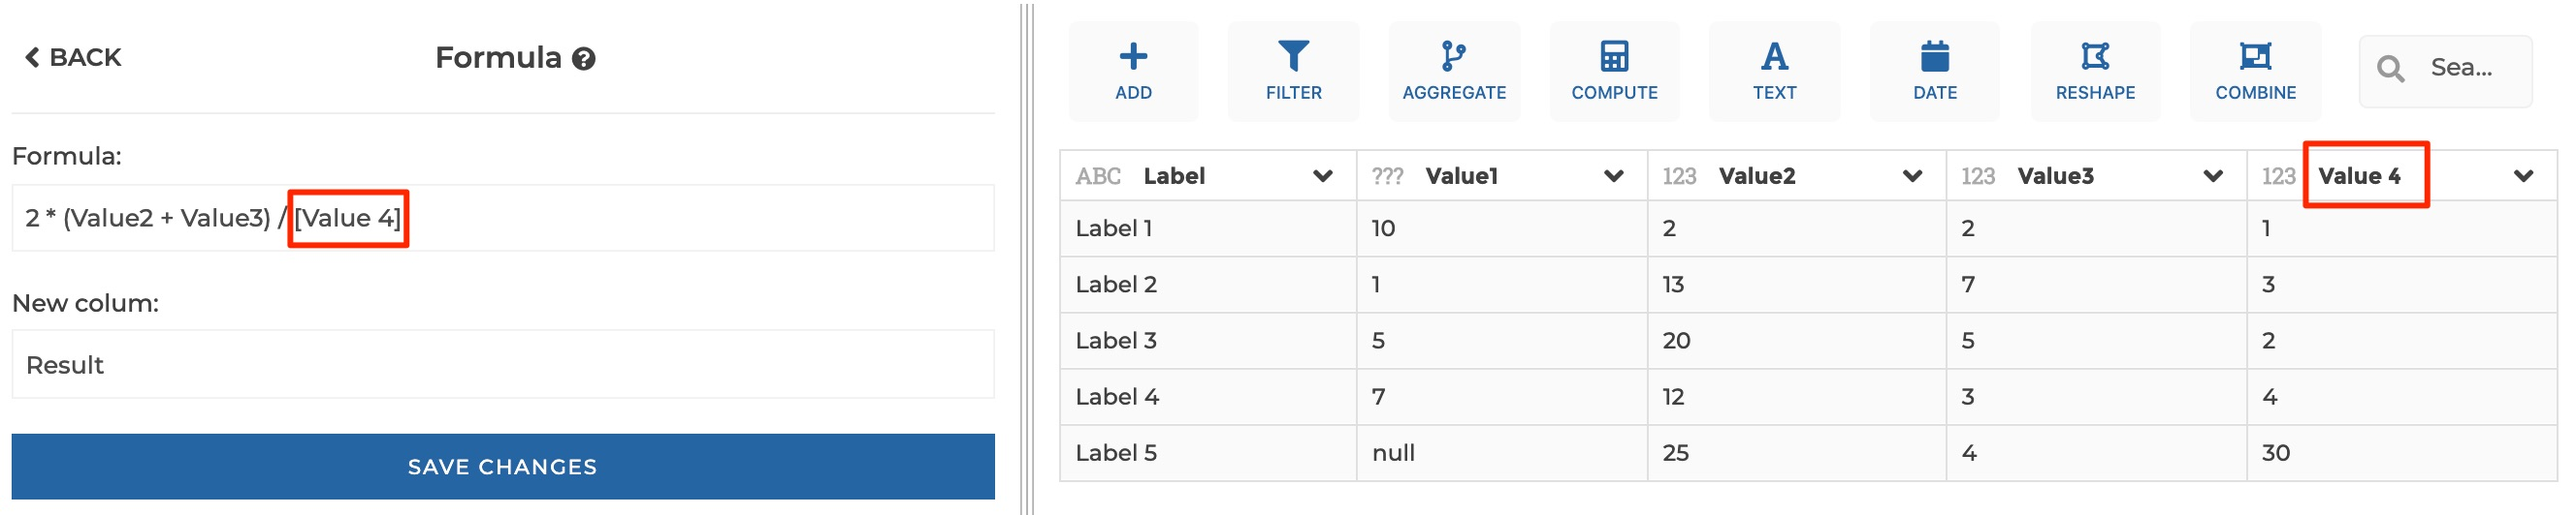
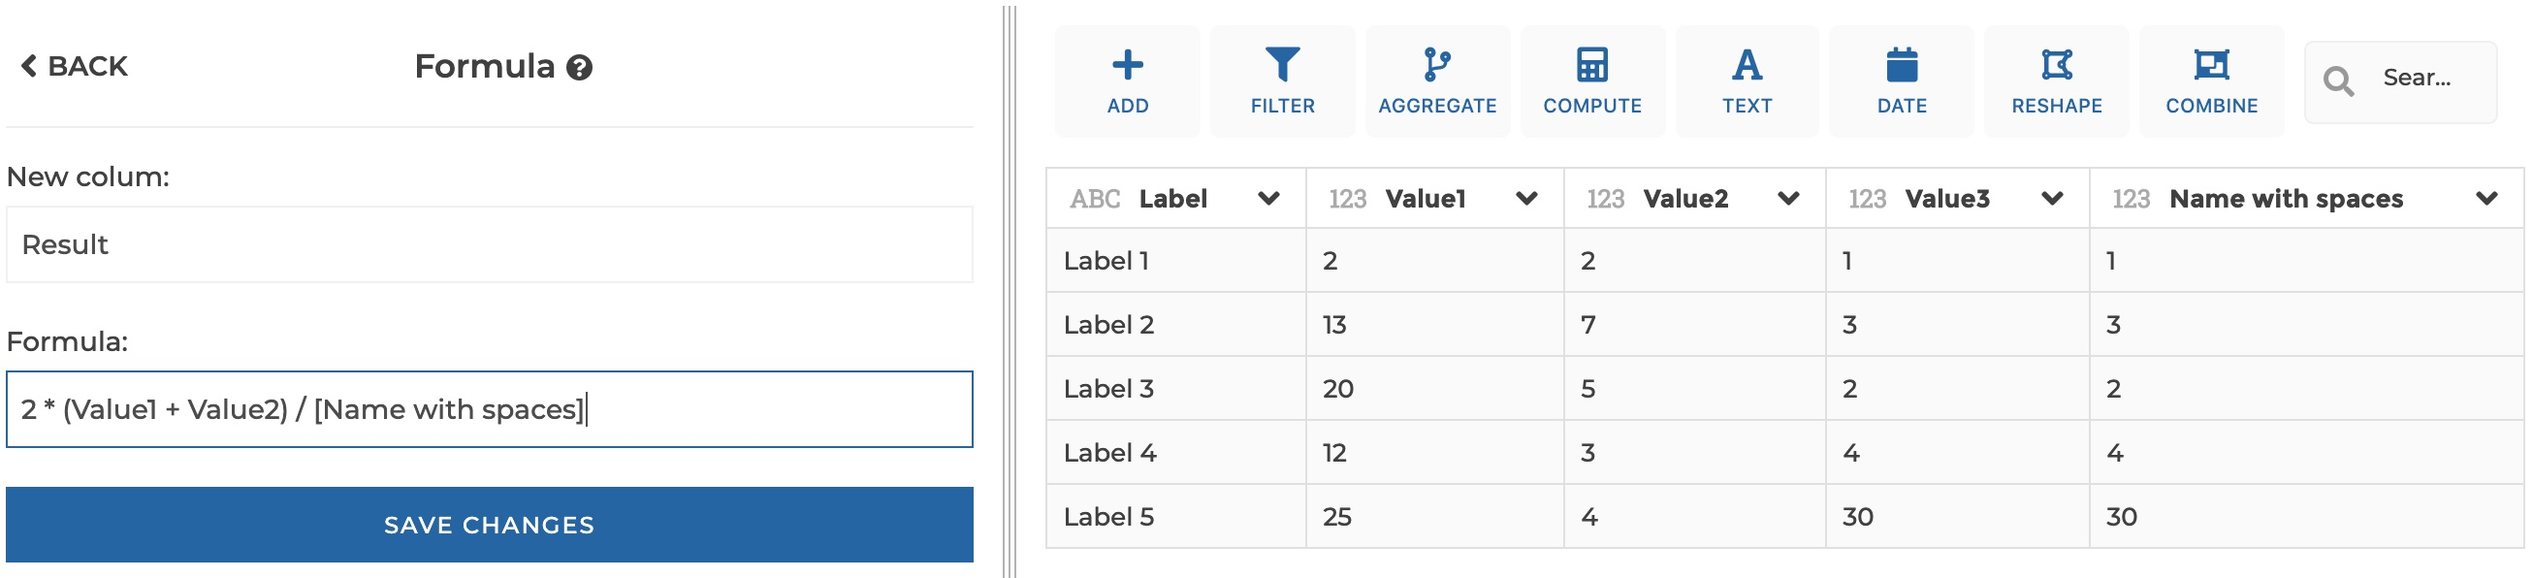
Change parameters orders to make some forms more intuitive In text and formula steps, first ask for the new columnn name to be created, which is more intuitive according to several feedbacks.

diff --git a/tests/unit/add-text-column.spec.ts b/tests/unit/add-text-column.spec.ts
@@ -13,18 +13,8 @@ describe('Add Text Column Step Form', () => {
     const wrapper = runner.shallowMount();
     wrapper.setData({ editedStep: { name: 'text', text: 'some text', new_column: 'foo' } });
     await wrapper.vm.$nextTick();
-    expect(
-      wrapper
-        .findAll('inputtextwidget-stub')
-        .at(0)
-        .props('value'),
-    ).toEqual('some text');
-    expect(
-      wrapper
-        .findAll('inputtextwidget-stub')
-        .at(1)
-        .props('value'),
-    ).toEqual('foo');
+    expect(wrapper.find('.newColumnInput').props('value')).toEqual('foo');
+    expect(wrapper.find('.textInput').props('value')).toEqual('some text');
   });
 
   it('should make the focus on the column added after validation', () => {
@@ -68,8 +58,7 @@ describe('Add Text Column Step Form', () => {
       const wrapper = runner.shallowMount(initialState);
       wrapper.setData({ editedStep: { text: '', new_column: 'columnA' } });
       await wrapper.vm.$nextTick();
-      const inputText = wrapper.findAll('inputtextwidget-stub');
-      expect(inputText.at(1).props().warning).toEqual(
+      expect(wrapper.find('.newColumnInput').props().warning).toEqual(
         'A column name "columnA" already exists. You will overwrite it.',
       );
     });
@@ -84,8 +73,7 @@ describe('Add Text Column Step Form', () => {
       const wrapper = runner.shallowMount(initialState);
       wrapper.setData({ editedStep: { text: '', new_column: 'columnB' } });
       await wrapper.vm.$nextTick();
-      const inputText = wrapper.findAll('inputtextwidget-stub');
-      expect(inputText.at(1).props().warning).toBeNull();
+      expect(wrapper.find('.newColumnInput').props().warning).toBeNull();
     });
   });
 });

diff --git a/tests/unit/formula-step-form.spec.ts b/tests/unit/formula-step-form.spec.ts
@@ -36,18 +36,8 @@ describe('Formula Step Form', () => {
       },
     );
     await wrapper.vm.$nextTick();
-    expect(
-      wrapper
-        .findAll('inputtextwidget-stub')
-        .at(0)
-        .props('value'),
-    ).toEqual('ColumnA * 2');
-    expect(
-      wrapper
-        .findAll('inputtextwidget-stub')
-        .at(1)
-        .props('value'),
-    ).toEqual('foo');
+    expect(wrapper.find('.newColumnInput').props('value')).toEqual('foo');
+    expect(wrapper.find('.formulaInput').props('value')).toEqual('ColumnA * 2');
   });
 
   describe('Warning', () => {
@@ -62,8 +52,7 @@ describe('Formula Step Form', () => {
         data: { editedStep: { formula: '', new_column: 'columnA' } },
       });
       await wrapper.vm.$nextTick();
-      const inputText = wrapper.findAll('inputtextwidget-stub');
-      expect(inputText.at(1).props().warning).toEqual(
+      expect(wrapper.find('.newColumnInput').props().warning).toEqual(
         'A column name "columnA" already exists. You will overwrite it.',
       );
     });
@@ -79,8 +68,7 @@ describe('Formula Step Form', () => {
         data: { editedStep: { formula: '', new_column: 'columnB' } },
       });
       await wrapper.vm.$nextTick();
-      const inputText = wrapper.findAll('inputtextwidget-stub');
-      expect(inputText.at(1).props().warning).toBeNull();
+      expect(wrapper.find('.newColumnInput').props().warning).toBeNull();
     });
   });
 

diff --git a/src/components/stepforms/FormulaStepForm.vue b/src/components/stepforms/FormulaStepForm.vue
@@ -2,14 +2,6 @@
   <div>
     <StepFormHeader :title="title" :stepName="this.editedStep.name" />
     <InputTextWidget
-      class="formulaInput"
-      v-model="editedStep.formula"
-      name="Formula:"
-      placeholder
-      data-path=".formula"
-      :errors="errors"
-    />
-    <InputTextWidget
       class="newColumnInput"
       v-model="editedStep.new_column"
       name="New colum:"
@@ -17,6 +9,14 @@
       data-path=".new_column"
       :errors="errors"
       :warning="duplicateColumnName"
+    />
+    <InputTextWidget
+      class="formulaInput"
+      v-model="editedStep.formula"
+      name="Formula:"
+      placeholder
+      data-path=".formula"
+      :errors="errors"
     />
     <StepFormButtonbar />
   </div>

diff --git a/src/components/stepforms/AddTextColumnStepForm.vue b/src/components/stepforms/AddTextColumnStepForm.vue
@@ -2,14 +2,6 @@
   <div>
     <StepFormHeader :title="title" :stepName="this.editedStep.name" />
     <InputTextWidget
-      class="textInput"
-      v-model="editedStep.text"
-      name="Enter a text:"
-      placeholder
-      data-path=".text"
-      :errors="errors"
-    />
-    <InputTextWidget
       class="newColumnInput"
       v-model="editedStep.new_column"
       name="New colum:"
@@ -17,6 +9,14 @@
       data-path=".new_column"
       :errors="errors"
       :warning="duplicateColumnName"
+    />
+    <InputTextWidget
+      class="textInput"
+      v-model="editedStep.text"
+      name="Enter a text:"
+      placeholder
+      data-path=".text"
+      :errors="errors"
     />
     <StepFormButtonbar />
   </div>

diff --git a/CHANGELOG.md b/CHANGELOG.md
@@ -3,7 +3,9 @@
 ## Unreleased
 
 ### Changed
+
 - The way we handle backendMessages (error/warning) by `BackendService`
+- Parameters order in text and formula steps forms
 
 ## [0.17.2] - 2020-05-13
 
@@ -31,7 +33,7 @@
 
 ### Fixed
 
-- pagination appears if DataSet is not complete 
+- pagination appears if DataSet is not complete
 - column unique values can be of any type
 - action toolbar buttons style
 
@@ -54,6 +56,7 @@
 ## [0.15.1] - 2020-04-06
 
 ### Changed
+
 - The Popover is not necessary mounted when not visible. Column's action menu are then not mounted, improving performance of DataSetViewer.
 
 ### Fixed

diff --git a/docs/_docs/user-interface/formula.md b/docs/_docs/user-interface/formula.md
@@ -26,12 +26,12 @@ as a string.
 
 <img src="../../img/docs/user-interface/formula_step_form.jpg" width="350" />
 
+- `New column`: the name of the new column to be created with the formula
+  result.
+
 - `Formula`: the formula, which can be an algebraic formula composed of numbers,
   maths operators and columns; it can also be a text (escaped by quotes) to
   uniformly fill the column with that text.
-
-- `New column`: the name of the new column to be created with the formula
-  result.
 
 #### Example 1: Basic usage
 

diff --git a/docs/_docs/user-interface/text.md b/docs/_docs/user-interface/text.md
@@ -22,9 +22,9 @@ specified text.
 
 <img src="../../img/docs/user-interface/text_step_form.jpg" width="350" />
 
-- `Text`: the text that you want to write in the new column
-
 - `New column`: the name of the new column to be created
+
+- `Enter a text`: the text that you want to write in the new column
 
 #### Example:
 
